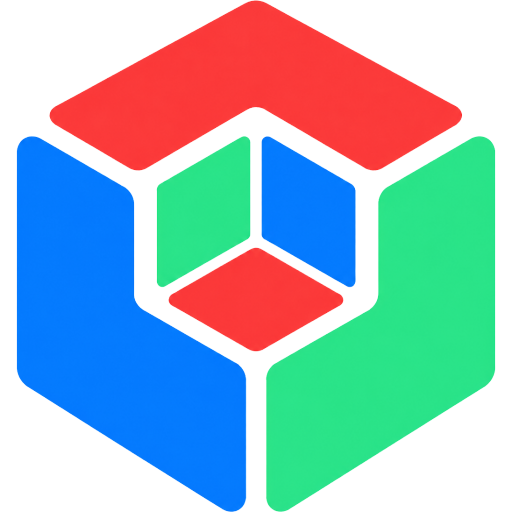
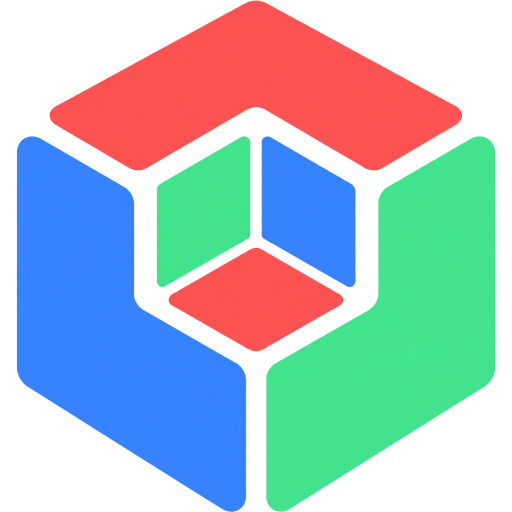
Release Project Bootstrap 0.1.5

diff --git a/tests/test_package.py b/tests/test_package.py
@@ -202,7 +202,7 @@ class PackageContractTests(unittest.TestCase):
         )
         for manifest in (portable, compat):
             self.assertEqual("project-bootstrap", manifest["name"])
-            self.assertEqual("0.1.4", manifest["version"])
+            self.assertEqual("0.1.5", manifest["version"])
             self.assertRegex(manifest["version"], SEMVER)
             self.assertTrue(manifest["description"].strip())
             self.assertEqual("Gipsy", manifest["author"]["name"])

diff --git a/README.md b/README.md
@@ -8,7 +8,7 @@ It separates three roles:
 - **Master** — the workspace coordinator that reconciles durable state, routes work, reviews handoffs, and drives project-level convergence.
 - **Task** — the bounded worker that implements or researches a task, verifies it, and returns evidence.
 
-Version 0.1.4 is a plugin beta. It preserves the 0.1.3 Manager, Master, Task, Shared Core, and Cloud Manager behavior while adding the finalized packaged branding and icon assets to both supported Plugin manifests. Cloud Manager is the canonical Manager delivered through a file, not a fourth role. The package contains no MCP server, app, OAuth flow, backend, or hooks. Cloud Manager: initial manual smoke tested; broader behavioral testing continues during beta. Marketplace Sync, Codex Plugin runtime testing, and the broader behavioral lifecycle remain separate and are not claimed as passed.
+Version 0.1.5 is a plugin beta. It preserves the 0.1.4 Manager, Master, Task, Shared Core, Cloud Manager, control-model, and workflow behavior while refining the packaged icon assets to reduce visual saturation. Cloud Manager is the canonical Manager delivered through a file, not a fourth role. The package contains no MCP server, app, OAuth flow, backend, or hooks. Cloud Manager: initial manual smoke tested; broader behavioral testing continues during beta. Marketplace Sync, Codex Plugin runtime testing, and the broader behavioral lifecycle remain separate and are not claimed as passed.
 
 ## Documentation
 

diff --git a/docs/MARKETPLACE_INSTALL_RU.md b/docs/MARKETPLACE_INSTALL_RU.md
@@ -48,4 +48,4 @@ Marketplace policy в repository задаёт `AVAILABLE` и `ON_INSTALL`, но 
 
 ## Ограничения текущей версии
 
-Версия 0.1.4 не содержит MCP, Apps, OAuth или backend. Наличие Cloud Manager artifact не доказывает доступность Plugin Skills в конкретной Cloud/Codex среде. Cloud Manager прошёл начальное ручное smoke testing; расширенный документированный behavioral suite продолжается в beta. ChatGPT marketplace Sync, доступность Plugin в Codex и полный behavioral lifecycle не заявлены как пройденные.
+Версия 0.1.5 не содержит MCP, Apps, OAuth или backend. Наличие Cloud Manager artifact не доказывает доступность Plugin Skills в конкретной Cloud/Codex среде. Cloud Manager прошёл начальное ручное smoke testing; расширенный документированный behavioral suite продолжается в beta. ChatGPT marketplace Sync, доступность Plugin в Codex и полный behavioral lifecycle не заявлены как пройденные.

diff --git a/plugins/project-bootstrap/docs/USER_GUIDE_RU.md b/plugins/project-bootstrap/docs/USER_GUIDE_RU.md
@@ -1,6 +1,6 @@
 # Project Bootstrap — руководство пользователя
 
-**Версия Plugin:** 0.1.4
+**Версия Plugin:** 0.1.5
 **Разработчик:** Gipsy
 **Статус:** beta
 
@@ -814,7 +814,7 @@ Project Bootstrap проверяет portable/continuity architecture и не п
 
 ## 29. Beta-статус
 
-Project Bootstrap v0.1.4 — beta.
+Project Bootstrap v0.1.5 — beta.
 
 Cloud Manager прошёл начальное ручное smoke testing; расширенное behavioral testing продолжается в beta. Это не означает, что весь документированный набор Cloud-сценариев уже выполнен.
 

diff --git a/plugins/project-bootstrap/CHANGELOG.md b/plugins/project-bootstrap/CHANGELOG.md
@@ -1,5 +1,10 @@
 # Changelog
 
+## 0.1.5 — 2026-09-17
+
+- Tuned the packaged Project Bootstrap icon assets to reduce visual saturation while preserving the existing branding, dimensions, transparency, and manifest paths.
+- No Manager, Master, Task, Shared Core, Cloud Manager, control-model, or workflow behavior changes.
+
 ## 0.1.4 — 2026-09-17
 
 - Added the finalized transparent PNG branding and icon asset set.

diff --git a/plugins/project-bootstrap/docs/CHATGPT_CLOUD_MANAGER.md b/plugins/project-bootstrap/docs/CHATGPT_CLOUD_MANAGER.md
@@ -1,8 +1,8 @@
 # Project Bootstrap Cloud Manager
 
 <!-- GENERATED FILE. DO NOT EDIT DIRECTLY. -->
-Version: 0.1.4
-Canonical source set SHA-256: 7f5b35ff994049f19b6aeeadbef183a82ea5bbfc1f055b11245461dd66f4bd4c
+Version: 0.1.5
+Canonical source set SHA-256: aee2e0740ec6beca4ae095e067a49b5cb6751f0097a995a0b7f23c46cd083fea
 
 ## ChatGPT Project setup
 

diff --git a/plugins/project-bootstrap/README.md b/plugins/project-bootstrap/README.md
@@ -1,6 +1,6 @@
 # Project Bootstrap plugin
 
-Project Bootstrap v0.1.4 packages three user-facing skills:
+Project Bootstrap v0.1.5 packages three user-facing skills:
 
 - `project-bootstrap-manager`
 - `project-bootstrap-master`

diff --git a/plugins/project-bootstrap/docs/QUICK_START_RU.md b/plugins/project-bootstrap/docs/QUICK_START_RU.md
@@ -1,6 +1,6 @@
 # Project Bootstrap — быстрый старт
 
-**Версия Plugin:** 0.1.4
+**Версия Plugin:** 0.1.5
 **Разработчик:** Gipsy
 **Статус:** beta
 
